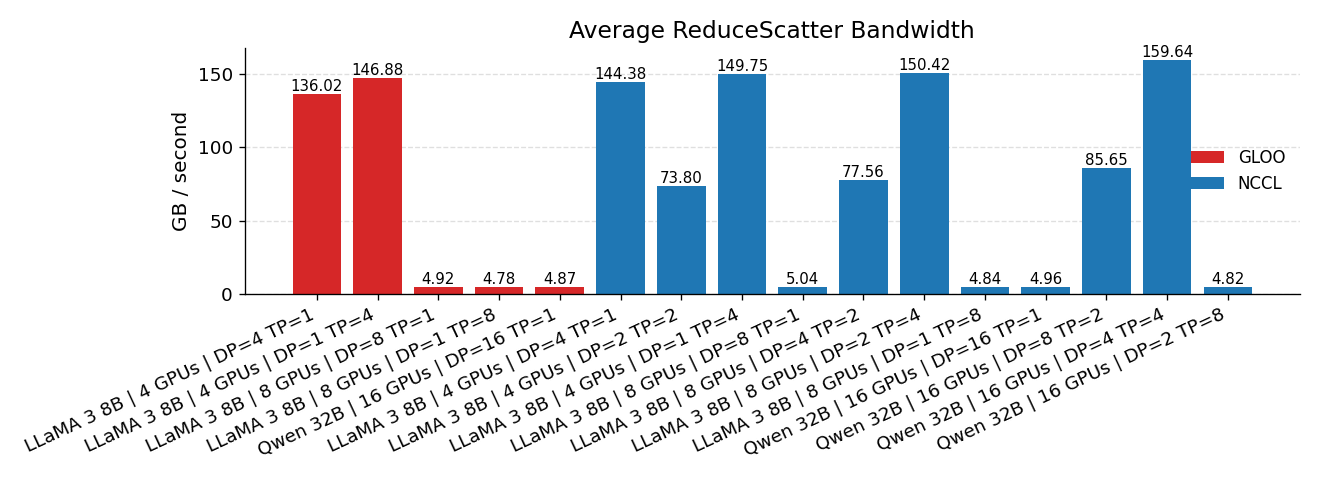
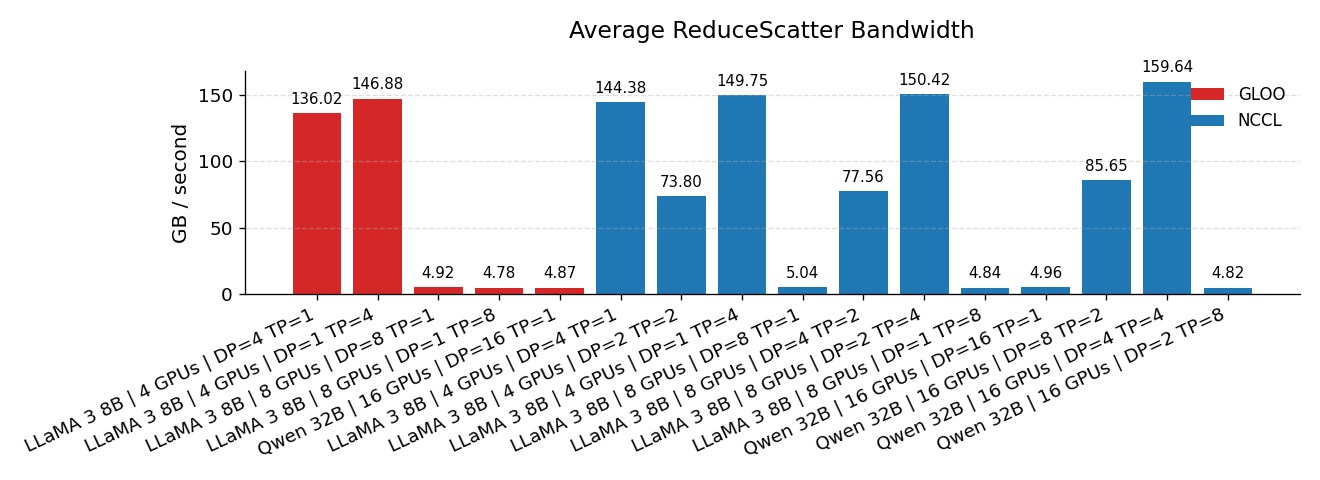
Added nccl and gloo specific plots

diff --git a/analyze_traces.py b/analyze_traces.py
@@ -24,16 +24,24 @@ plt.rcParams.update({
     "axes.spines.top": False,
     "axes.spines.right": False,
 })
+plt.rcParams["axes.titlepad"] = 20   # default ~6, now moved higher
 
-BACKEND_COLORS = {
-    "GLOO": "#d62728",
-    "NCCL": "#1f77b4",
+BACKEND_COLORS = {"GLOO": "#d62728", "NCCL": "#1f77b4"}
+BACKEND_LEGEND = [Patch(facecolor=BACKEND_COLORS[b], label=b) for b in BACKEND_COLORS]
+
+# ============================================================
+# TITLE MAP (preserves original plot titles)
+# ============================================================
+TITLE_MAP = {
+    "tokens_per_sec": "End-to-End Training Throughput",
+    "iter_time_ms": "Time per Training Iteration",
+    "overlap_pct": "Communication–Computation Overlap",
+    "bandwidth_gbps": "Average Collective Bandwidth",
+    "total_traffic_gb": "Total Network Traffic per Iteration",
+    "allgather_bw": "Average AllGather Bandwidth",
+    "reducescatter_bw": "Average ReduceScatter Bandwidth",
+    "allreduce_bw": "Average AllReduce Bandwidth",
 }
-
-BACKEND_LEGEND = [
-    Patch(facecolor=BACKEND_COLORS[b], label=b)
-    for b in BACKEND_COLORS
-]
 
 # ============================================================
 # FILENAME PARSING
@@ -51,7 +59,6 @@ def parse_filename(fname: str):
 
     fname_lower = fname.lower()
 
-    # --- robust model detection ---
     if re.search(r"llama.*8b", fname_lower):
         model = "LLaMA 3 8B"
     elif re.search(r"qwen.*32b", fname_lower):
@@ -62,32 +69,35 @@ def parse_filename(fname: str):
     label = f"{model} | {gpus} GPUs | DP={dp} TP={tp}"
     return backend, label, dp, tp, gpus
 
-
 # ============================================================
-# TRACE PARSING
+# REPORT PARSING
 # ============================================================
 def parse_report(text: str):
     def grab(pattern, cast=float):
         m = re.search(pattern, text, re.DOTALL)
         return cast(m.group(1)) if m else np.nan
 
-    return {
+    metrics = {
         "tokens_per_sec": grab(r"Tokens per Second:\s*([\d.]+)"),
         "iter_time_ms": grab(r"Time per Iteration:\s*([\d.]+)"),
         "overlap_pct": grab(r"Average Overlap:\s*([\d.]+)"),
         "bandwidth_gbps": grab(r"Average Collective Bandwidth:\s*([\d.]+)"),
         "total_traffic_gb": grab(r"Total Traffic:\s*([\d.]+)"),
+        "allgather_bw": grab(r"AllGather:[\s\S]*?Avg BW:\s*([\d.]+)"),
+        "reducescatter_bw": grab(r"ReduceScatter:[\s\S]*?Avg BW:\s*([\d.]+)"),
+        "allreduce_bw": grab(r"AllReduce:[\s\S]*?Avg BW:\s*([\d.]+)"),
     }
+    return metrics
 
 # ============================================================
-# LOAD + SORT TRACE FILES
+# LOAD TRACE FILES
 # ============================================================
 records = []
 
 for path in TRACE_DIR.glob("*.txt"):
     backend, label, dp, tp, gpus = parse_filename(path.name)
 
-    with open(path) as f:
+    with open(path, "r") as f:
         metrics = parse_report(f.read())
 
     records.append({
@@ -115,7 +125,7 @@ with open(CSV_OUT, "w", newline="") as f:
 print(f"[OK] Wrote CSV summary → {CSV_OUT}")
 
 # ============================================================
-# PLOTTING HELPERS
+# BASE PLOTTING FUNCTION
 # ============================================================
 labels = [r["label"] for r in records]
 colors = [BACKEND_COLORS[r["backend"]] for r in records]
@@ -128,58 +138,100 @@ def bar_plot(key, ylabel, title, fname):
     ax.bar(x, values, color=colors)
 
     ax.set_ylabel(ylabel)
-    ax.set_title(title)
+    ax.set_title(title, pad=20)
     ax.set_xticks(x)
     ax.set_xticklabels(labels, rotation=25, ha="right")
 
     ax.grid(axis="y", linestyle="--", alpha=0.4)
-    ax.set_axisbelow(True)
     ax.legend(handles=BACKEND_LEGEND, frameon=False)
+
+    y_offset = 0.03 * max(values)
 
     for i, v in enumerate(values):
         if not np.isnan(v):
-            ax.text(i, v, f"{v:.1f}", ha="center", va="bottom", fontsize=9)
+            if key == "tokens_per_sec":  # fix throughput label overlap
+                ax.text(i, v + y_offset, f"{v:.0f}",
+                        ha="center", va="bottom", fontsize=7, rotation=45)
+            else:
+                ax.text(i, v + y_offset, f"{v:.2f}",
+                        ha="center", va="bottom", fontsize=9)
 
     fig.tight_layout()
     fig.savefig(OUT_DIR / fname)
     plt.close(fig)
 
 # ============================================================
-# CORE METRIC PLOTS
+# CORE PLOTS
 # ============================================================
-bar_plot(
-    "tokens_per_sec",
-    "Tokens / second",
-    "End-to-End Training Throughput",
-    "throughput.png",
-)
+bar_plot("tokens_per_sec", "Tokens / second",
+         "End-to-End Training Throughput", "throughput.png")
+bar_plot("iter_time_ms", "Milliseconds",
+         "Time per Training Iteration", "iteration_time.png")
+bar_plot("overlap_pct", "Overlap (%)",
+         "Communication–Computation Overlap", "overlap.png")
+bar_plot("bandwidth_gbps", "GB / second",
+         "Average Collective Bandwidth", "bandwidth.png")
+bar_plot("total_traffic_gb", "GB",
+         "Total Network Traffic per Iteration", "total_traffic.png")
+bar_plot("allgather_bw", "GB / second",
+         "Average AllGather Bandwidth", "allgather_bandwidth.png")
+bar_plot("reducescatter_bw", "GB / second",
+         "Average ReduceScatter Bandwidth", "reducescatter_bandwidth.png")
+bar_plot("allreduce_bw", "GB / second",
+         "Average AllReduce Bandwidth", "allreduce_bandwidth.png")
 
-bar_plot(
-    "iter_time_ms",
-    "Milliseconds",
-    "Time per Training Iteration",
-    "iteration_time.png",
-)
+# ============================================================
+# NCCL-only + GLOO-only VERSIONS
+# ============================================================
+def backend_plot(backend_name, key, ylabel, fname_suffix):
+    subset = [r for r in records if r["backend"] == backend_name]
+    if not subset:
+        return
 
-bar_plot(
-    "overlap_pct",
-    "Overlap (%)",
-    "Communication–Computation Overlap",
-    "overlap.png",
-)
+    labs = [r["label"] for r in subset]
+    vals = [r[key] for r in subset]
+    cols = [BACKEND_COLORS[r["backend"]] for r in subset]
 
-bar_plot(
-    "bandwidth_gbps",
-    "GB / second",
-    "Average Collective Bandwidth",
-    "bandwidth.png",
-)
+    x = np.arange(len(labs))
+    fig, ax = plt.subplots(figsize=(11, 4))
+    ax.bar(x, vals, color=cols)
 
-bar_plot(
-    "total_traffic_gb",
-    "GB",
-    "Total Network Traffic per Iteration",
-    "total_traffic.png",
-)
+    base_title = TITLE_MAP.get(key, key)
+    ax.set_title(f"{base_title} ({backend_name} only)", pad=20)
+
+    ax.set_ylabel(ylabel)
+    ax.set_xticks(x)
+    ax.set_xticklabels(labs, rotation=25, ha="right")
+    ax.grid(axis="y", linestyle="--", alpha=0.4)
+
+
+    y_offset = 0.03 * max(vals) if vals else 0
+    for i, v in enumerate(vals):
+        if not np.isnan(v):
+            ax.text(i, v + y_offset, f"{v:.2f}",
+                    ha="center", va="bottom", fontsize=9)
+
+    fig.tight_layout()
+    fig.savefig(OUT_DIR / f"{backend_name.lower()}_{fname_suffix}.png")
+    plt.close(fig)
+
+
+for key in TITLE_MAP.keys():
+
+    if key == "tokens_per_sec":
+        ylabel = "Tokens / second"
+    elif key == "iter_time_ms":
+        ylabel = "Milliseconds"
+    elif key.endswith("_bw") or key == "bandwidth_gbps":
+        ylabel = "GB / second"
+    elif key == "total_traffic_gb":
+        ylabel = "GB"
+    elif key == "overlap_pct":
+        ylabel = "Overlap (%)"
+    else:
+        ylabel = "Value"
+
+    backend_plot("NCCL", key, ylabel, f"{key}")
+    backend_plot("GLOO", key, ylabel, f"{key}")
 
 print(f"[OK] All plots saved to → {OUT_DIR.resolve()}")
